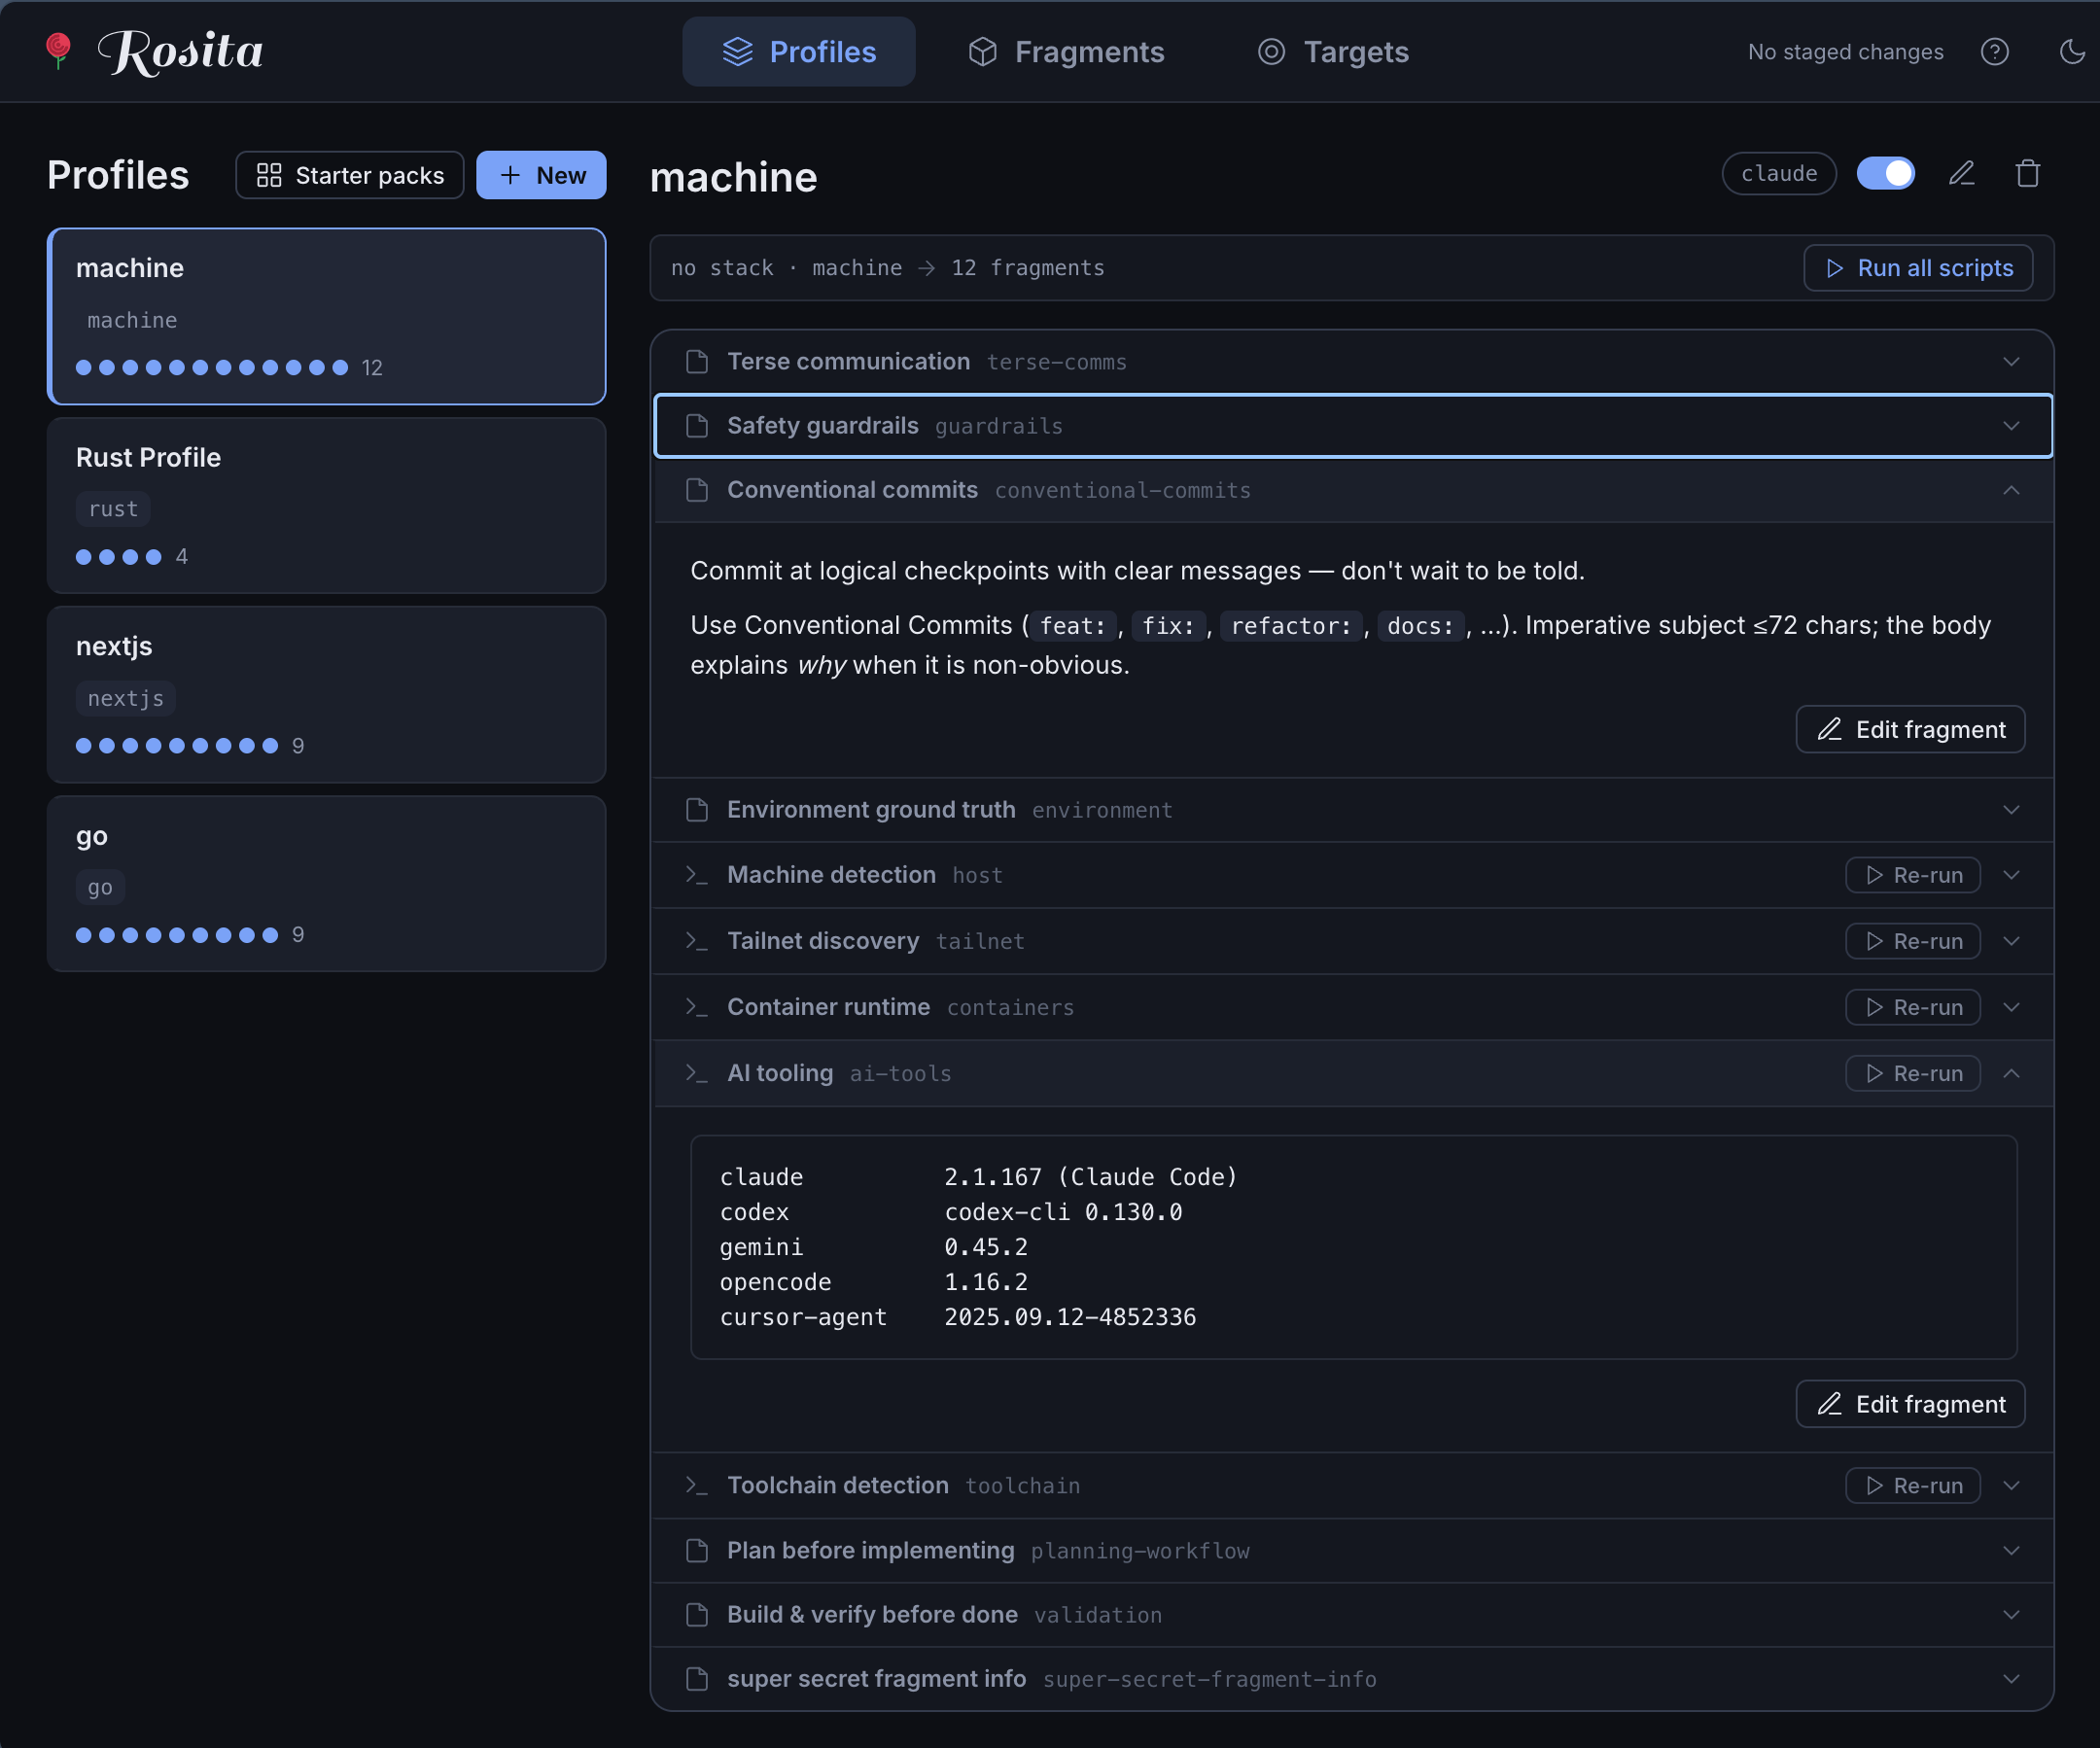
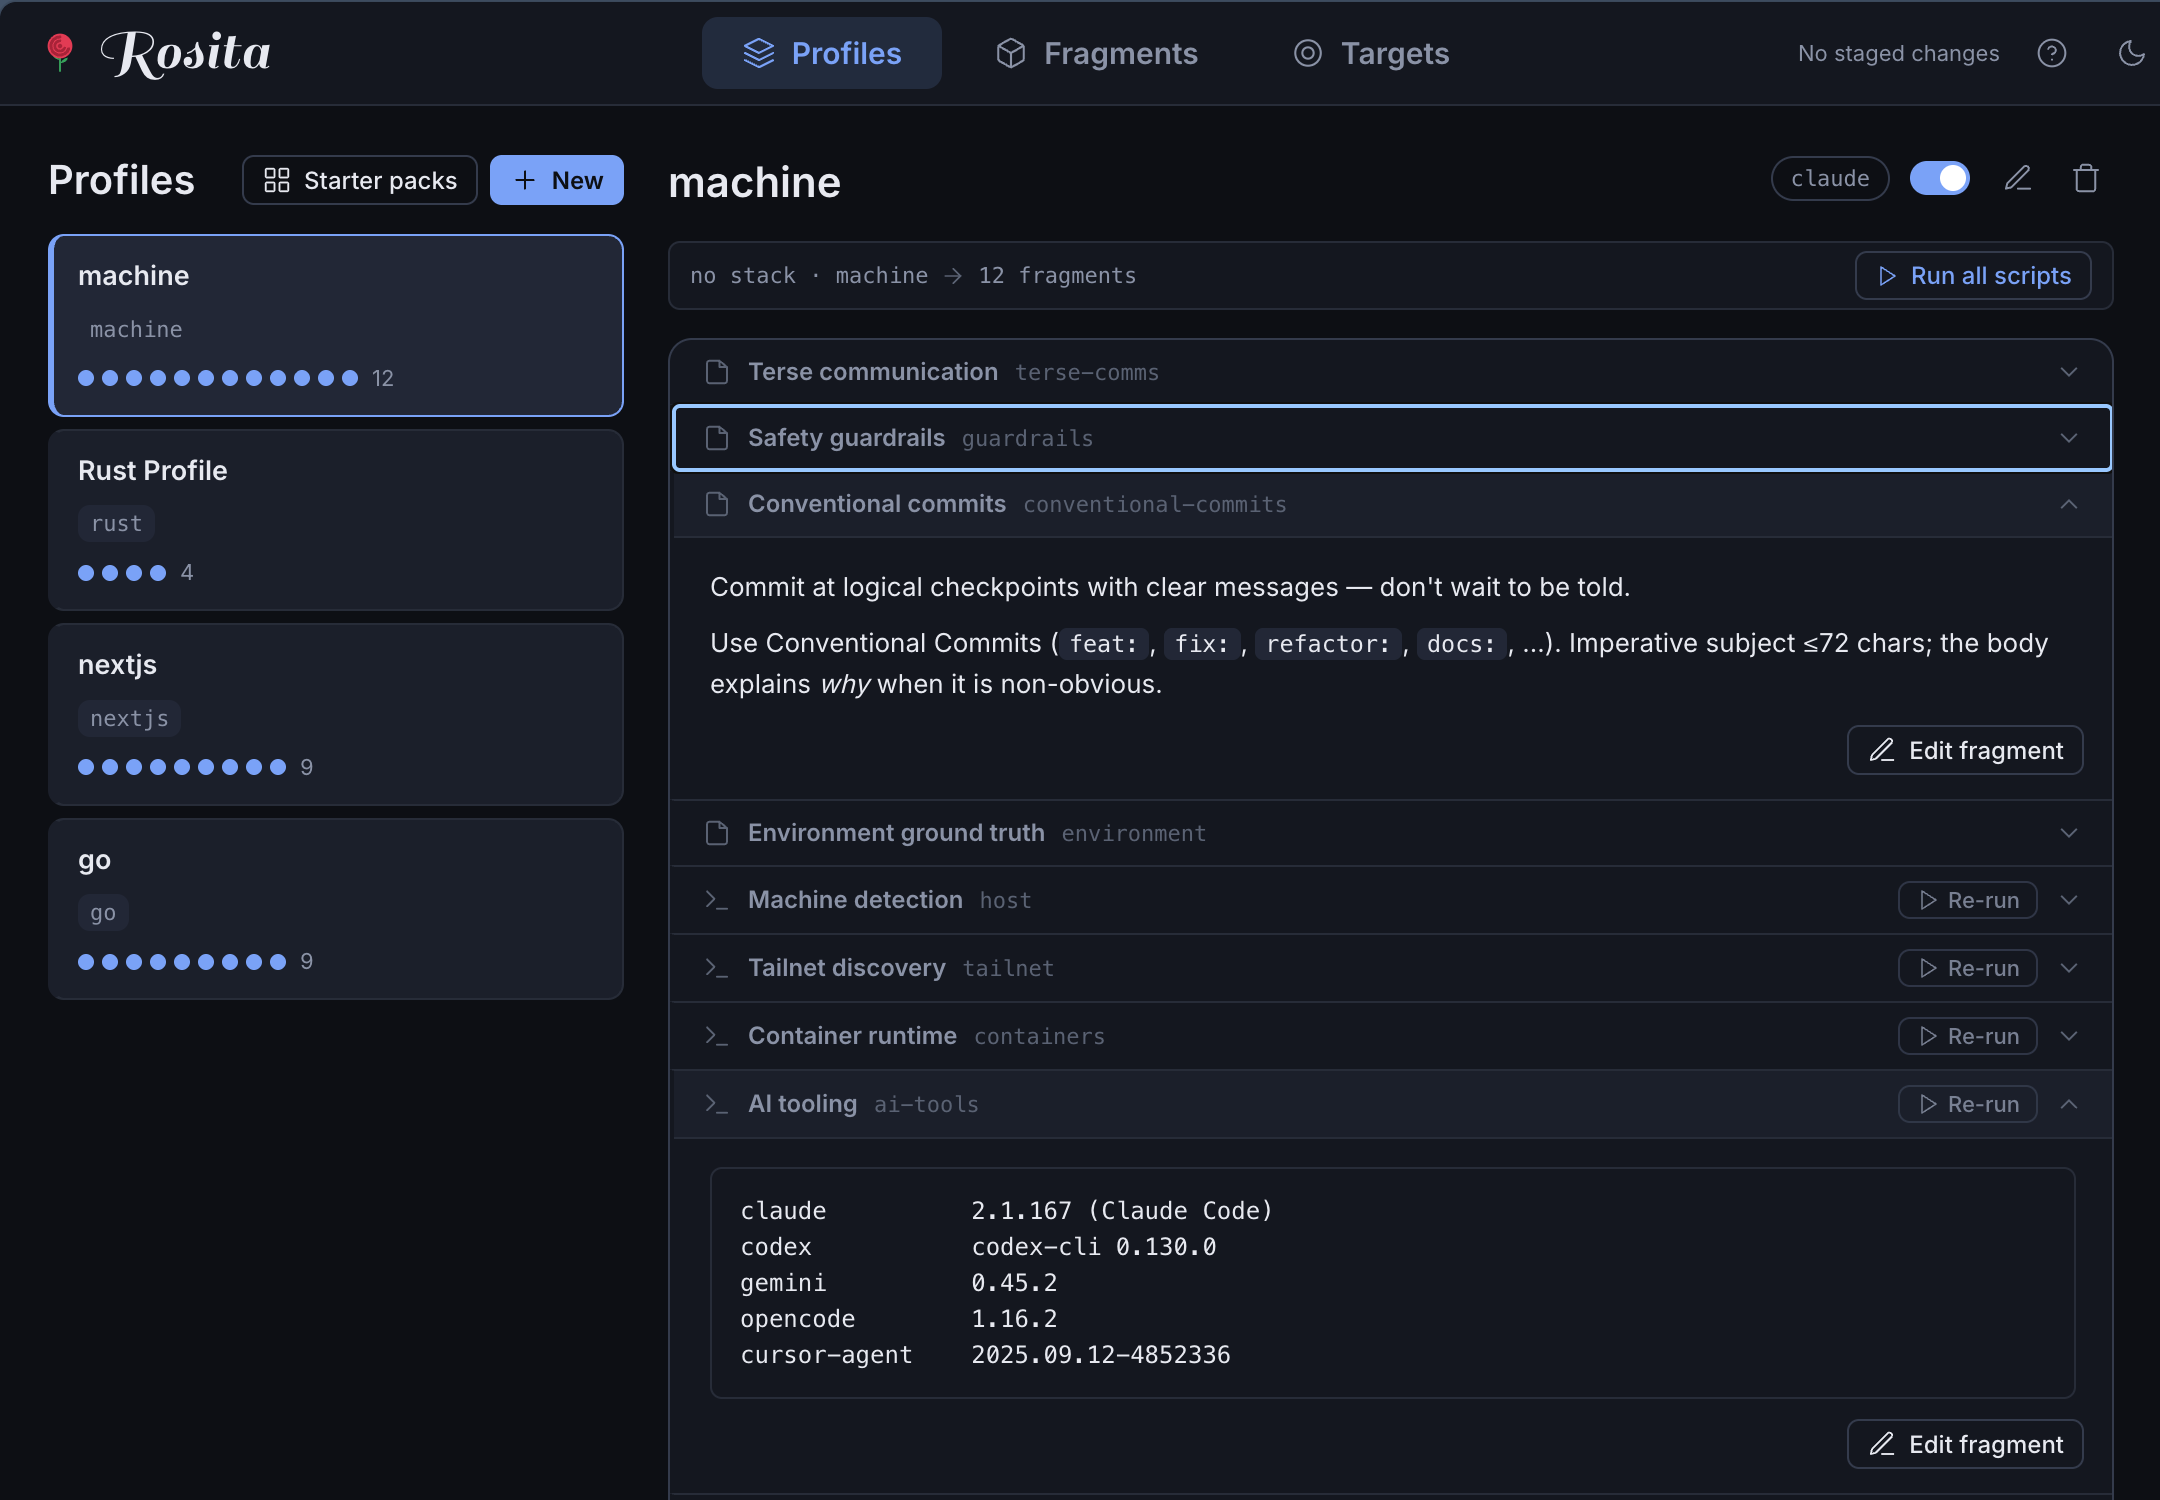
docs(readme): tighten quick start and crop the hero screenshot
Quick start is now install → studio → run; explain is already demoed in
the What happens section. Hero screenshot cropped from 2160x1798 to
2160x1500 (top-anchored) so it reads wide, ending after the AI-tooling
fragment's live output.

diff --git a/README.md b/README.md
@@ -54,12 +54,6 @@ Open the local UI and create your first fragments and profiles:
 rosita studio
 ```
 
-See what Rosita detects in the current project:
-
-```bash
-rosita explain
-```
-
 Run your agent with the matching context injected:
 
 ```bash